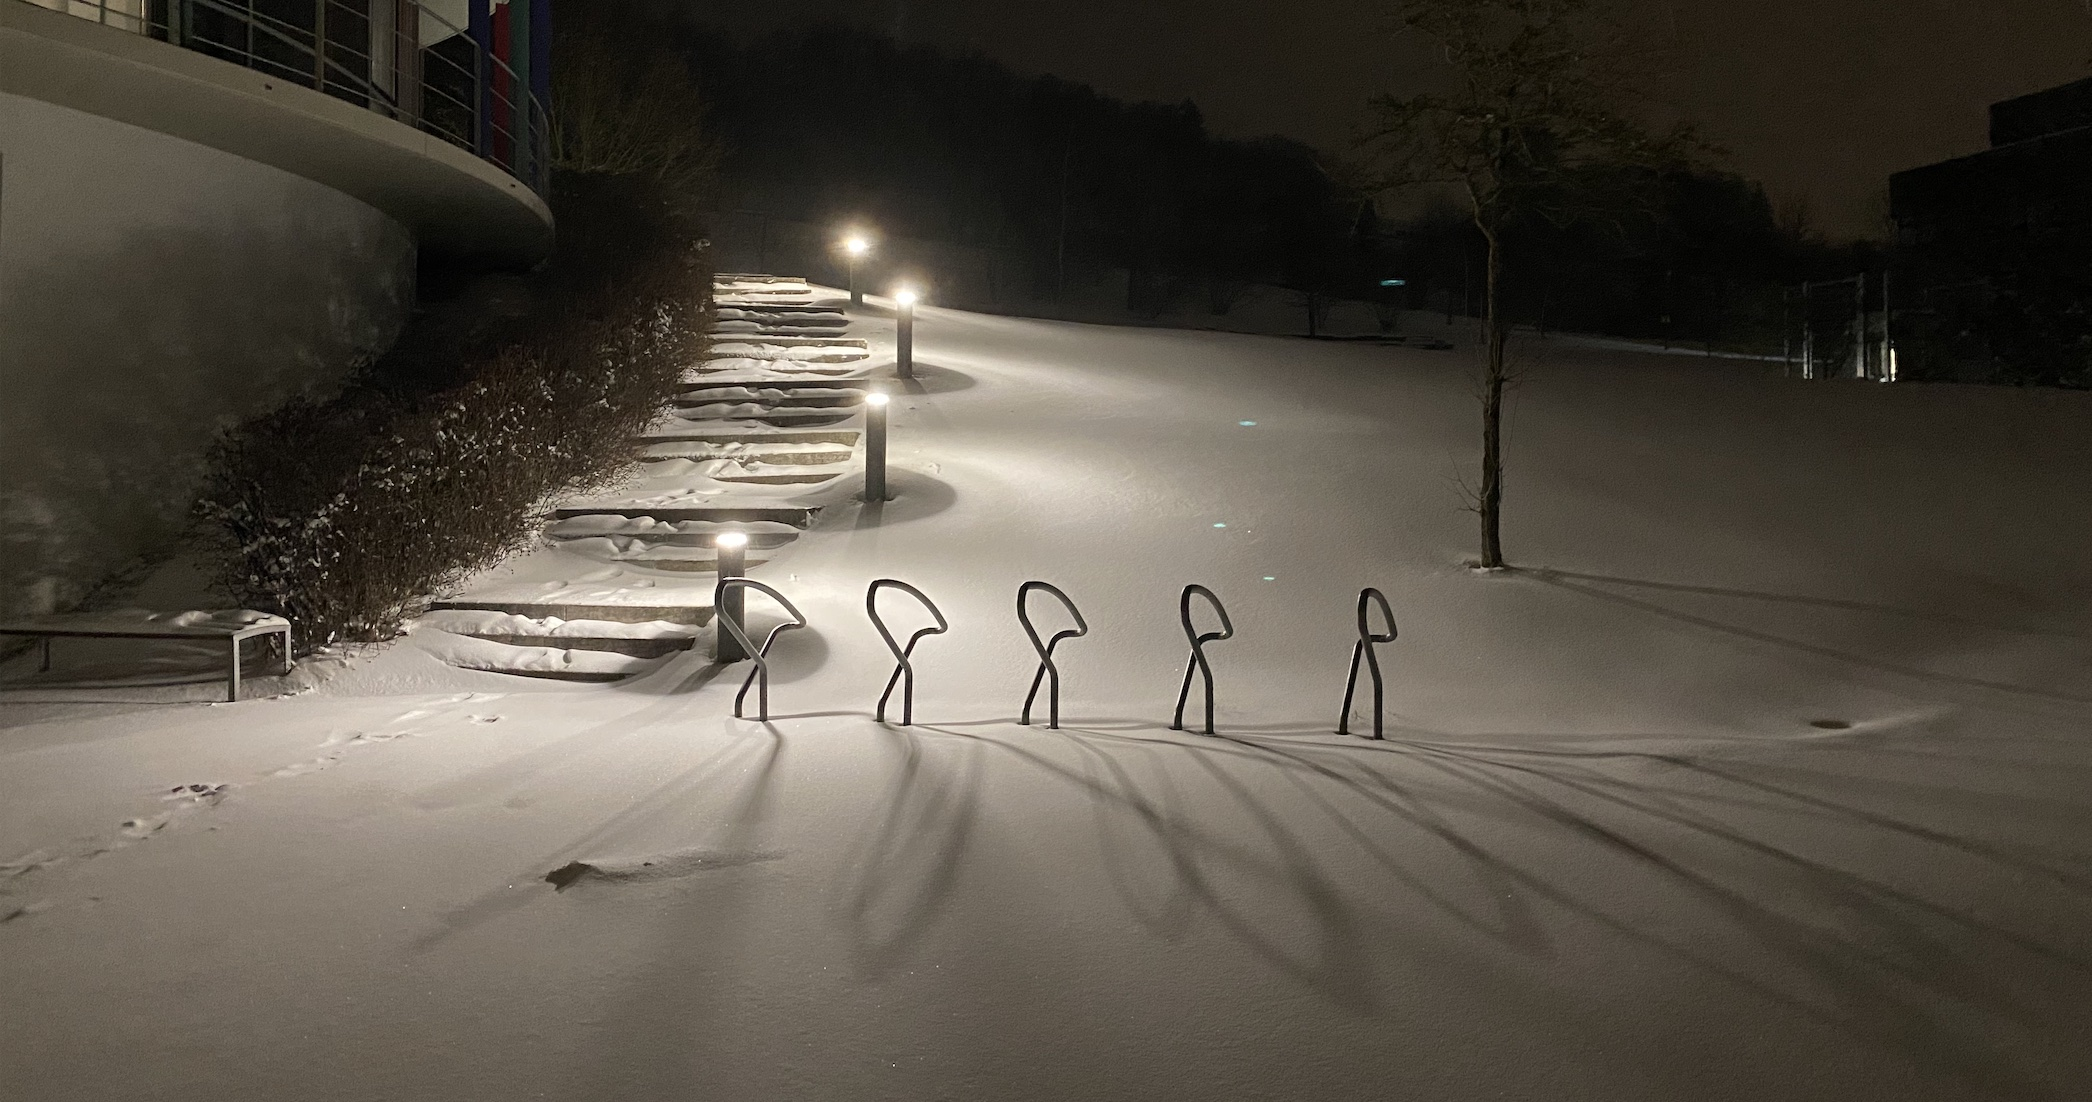
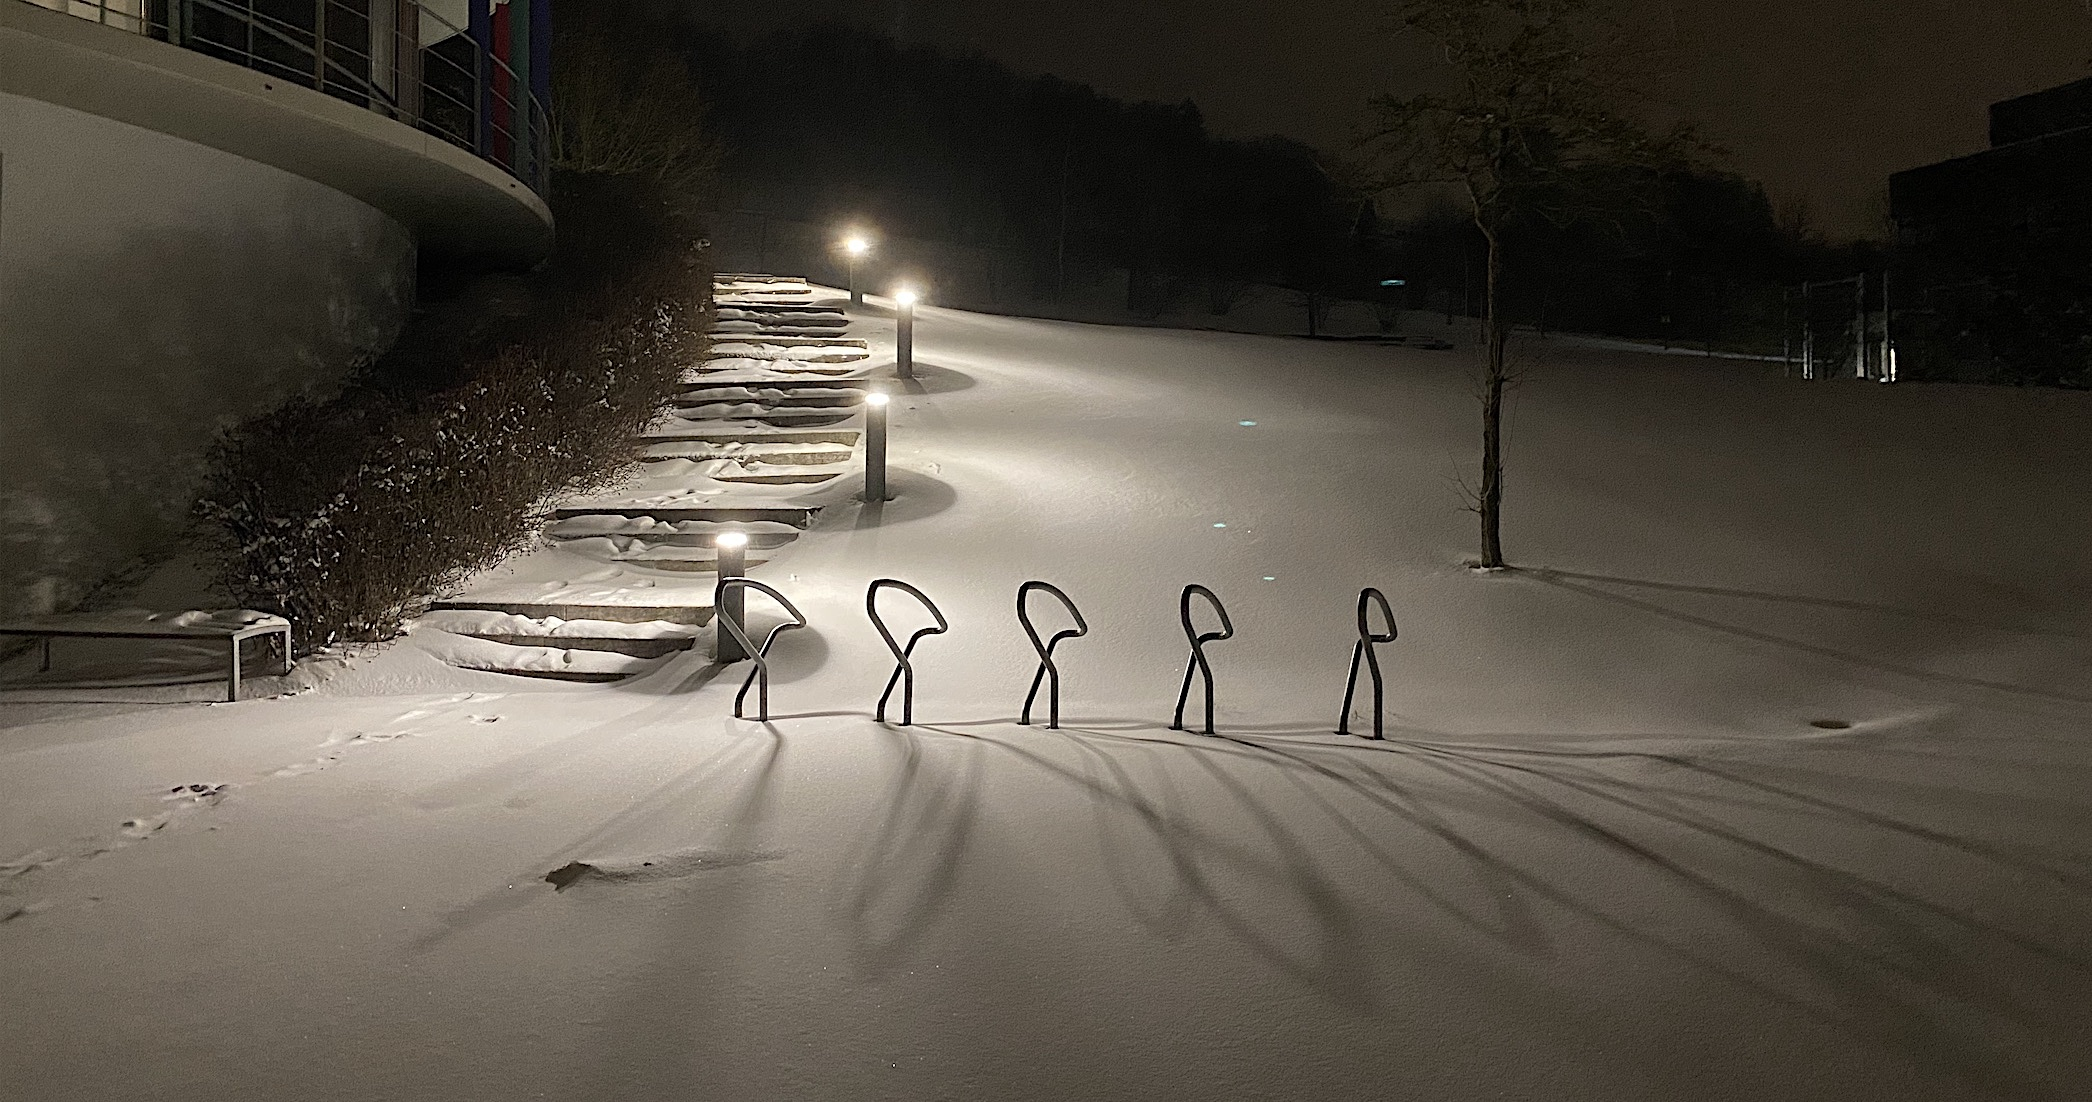
rebuilding site Sun Feb  7 23:15:55 CET 2021

diff --git a/404.html b/404.html
@@ -23,8 +23,8 @@
     <meta property="og:type" content="article">
 
     
-    <meta property="og:image" content="https://RS-SiyuanWang.github.io/./image/Institute.jpg">
-    <meta property="twitter:image" content="https://RS-SiyuanWang.github.io/./image/Institute.jpg" />
+    <meta property="og:image" content="https://RS-SiyuanWang.github.io/./image/Institute2.jpg">
+    <meta property="twitter:image" content="https://RS-SiyuanWang.github.io/./image/Institute2.jpg" />
     
 
     
@@ -157,7 +157,7 @@
 
 
 
-<header class="intro-header" style="background-image: url('/image/Institute.jpg')">
+<header class="intro-header" style="background-image: url('/image/Institute2.jpg')">
     <div class="container">
         <div class="row">
             <div class="col-lg-8 col-lg-offset-2 col-md-10 col-md-offset-1 ">

diff --git a/categories/index.html b/categories/index.html
@@ -23,8 +23,8 @@
     <meta property="og:type" content="article">
 
     
-    <meta property="og:image" content="https://RS-SiyuanWang.github.io/./image/Institute.jpg">
-    <meta property="twitter:image" content="https://RS-SiyuanWang.github.io/./image/Institute.jpg" />
+    <meta property="og:image" content="https://RS-SiyuanWang.github.io/./image/Institute2.jpg">
+    <meta property="twitter:image" content="https://RS-SiyuanWang.github.io/./image/Institute2.jpg" />
     
 
     
@@ -157,7 +157,7 @@
 
 
 
-<header class="intro-header" style="background-image: url('/image/Institute.jpg')">
+<header class="intro-header" style="background-image: url('/image/Institute2.jpg')">
     <div class="container">
         <div class="row">
             <div class="col-lg-8 col-lg-offset-2 col-md-10 col-md-offset-1 ">

diff --git a/categories/tech/index.html b/categories/tech/index.html
@@ -23,8 +23,8 @@
     <meta property="og:type" content="article">
 
     
-    <meta property="og:image" content="https://RS-SiyuanWang.github.io/./image/Institute.jpg">
-    <meta property="twitter:image" content="https://RS-SiyuanWang.github.io/./image/Institute.jpg" />
+    <meta property="og:image" content="https://RS-SiyuanWang.github.io/./image/Institute2.jpg">
+    <meta property="twitter:image" content="https://RS-SiyuanWang.github.io/./image/Institute2.jpg" />
     
 
     
@@ -157,7 +157,7 @@
 
 
 
-<header class="intro-header" style="background-image: url('/image/Institute.jpg')">
+<header class="intro-header" style="background-image: url('/image/Institute2.jpg')">
     <div class="container">
         <div class="row">
             <div class="col-lg-8 col-lg-offset-2 col-md-10 col-md-offset-1 ">

diff --git a/index.html b/index.html
@@ -24,8 +24,8 @@
     <meta property="og:type" content="article">
 
     
-    <meta property="og:image" content="https://RS-SiyuanWang.github.io/./image/Institute.jpg">
-    <meta property="twitter:image" content="https://RS-SiyuanWang.github.io/./image/Institute.jpg" />
+    <meta property="og:image" content="https://RS-SiyuanWang.github.io/./image/Institute2.jpg">
+    <meta property="twitter:image" content="https://RS-SiyuanWang.github.io/./image/Institute2.jpg" />
     
 
     
@@ -158,7 +158,7 @@
 
 
 
-<header class="intro-header" style="background-image: url('/image/Institute.jpg')">
+<header class="intro-header" style="background-image: url('/image/Institute2.jpg')">
     <div class="container">
         <div class="row">
             <div class="col-lg-8 col-lg-offset-2 col-md-10 col-md-offset-1 ">

diff --git a/post/index.html b/post/index.html
@@ -23,8 +23,8 @@
     <meta property="og:type" content="article">
 
     
-    <meta property="og:image" content="https://RS-SiyuanWang.github.io/./image/Institute.jpg">
-    <meta property="twitter:image" content="https://RS-SiyuanWang.github.io/./image/Institute.jpg" />
+    <meta property="og:image" content="https://RS-SiyuanWang.github.io/./image/Institute2.jpg">
+    <meta property="twitter:image" content="https://RS-SiyuanWang.github.io/./image/Institute2.jpg" />
     
 
     
@@ -157,7 +157,7 @@
 
 
 
-<header class="intro-header" style="background-image: url('/image/Institute.jpg')">
+<header class="intro-header" style="background-image: url('/image/Institute2.jpg')">
     <div class="container">
         <div class="row">
             <div class="col-lg-8 col-lg-offset-2 col-md-10 col-md-offset-1 ">

diff --git a/tags/index.html b/tags/index.html
@@ -23,8 +23,8 @@
     <meta property="og:type" content="article">
 
     
-    <meta property="og:image" content="https://RS-SiyuanWang.github.io/./image/Institute.jpg">
-    <meta property="twitter:image" content="https://RS-SiyuanWang.github.io/./image/Institute.jpg" />
+    <meta property="og:image" content="https://RS-SiyuanWang.github.io/./image/Institute2.jpg">
+    <meta property="twitter:image" content="https://RS-SiyuanWang.github.io/./image/Institute2.jpg" />
     
 
     
@@ -157,7 +157,7 @@
 
 
 
-<header class="intro-header" style="background-image: url('/image/Institute.jpg')">
+<header class="intro-header" style="background-image: url('/image/Institute2.jpg')">
     <div class="container">
         <div class="row">
             <div class="col-lg-8 col-lg-offset-2 col-md-10 col-md-offset-1 ">

diff --git a/tags/test/index.html b/tags/test/index.html
@@ -23,8 +23,8 @@
     <meta property="og:type" content="article">
 
     
-    <meta property="og:image" content="https://RS-SiyuanWang.github.io/./image/Institute.jpg">
-    <meta property="twitter:image" content="https://RS-SiyuanWang.github.io/./image/Institute.jpg" />
+    <meta property="og:image" content="https://RS-SiyuanWang.github.io/./image/Institute2.jpg">
+    <meta property="twitter:image" content="https://RS-SiyuanWang.github.io/./image/Institute2.jpg" />
     
 
     
@@ -157,7 +157,7 @@
 
 
 
-<header class="intro-header" style="background-image: url('/image/Institute.jpg')">
+<header class="intro-header" style="background-image: url('/image/Institute2.jpg')">
     <div class="container">
         <div class="row">
             <div class="col-lg-8 col-lg-offset-2 col-md-10 col-md-offset-1 ">

diff --git a/tags/wang/index.html b/tags/wang/index.html
@@ -23,8 +23,8 @@
     <meta property="og:type" content="article">
 
     
-    <meta property="og:image" content="https://RS-SiyuanWang.github.io/./image/Institute.jpg">
-    <meta property="twitter:image" content="https://RS-SiyuanWang.github.io/./image/Institute.jpg" />
+    <meta property="og:image" content="https://RS-SiyuanWang.github.io/./image/Institute2.jpg">
+    <meta property="twitter:image" content="https://RS-SiyuanWang.github.io/./image/Institute2.jpg" />
     
 
     
@@ -157,7 +157,7 @@
 
 
 
-<header class="intro-header" style="background-image: url('/image/Institute.jpg')">
+<header class="intro-header" style="background-image: url('/image/Institute2.jpg')">
     <div class="container">
         <div class="row">
             <div class="col-lg-8 col-lg-offset-2 col-md-10 col-md-offset-1 ">

diff --git a/post/testpage/index.html b/post/testpage/index.html
@@ -23,8 +23,8 @@
     <meta property="og:type" content="article">
 
     
-    <meta property="og:image" content="https://RS-SiyuanWang.github.io/./image/Institute.jpg">
-    <meta property="twitter:image" content="https://RS-SiyuanWang.github.io/./image/Institute.jpg" />
+    <meta property="og:image" content="https://RS-SiyuanWang.github.io/./image/Institute2.jpg">
+    <meta property="twitter:image" content="https://RS-SiyuanWang.github.io/./image/Institute2.jpg" />
     
 
     
